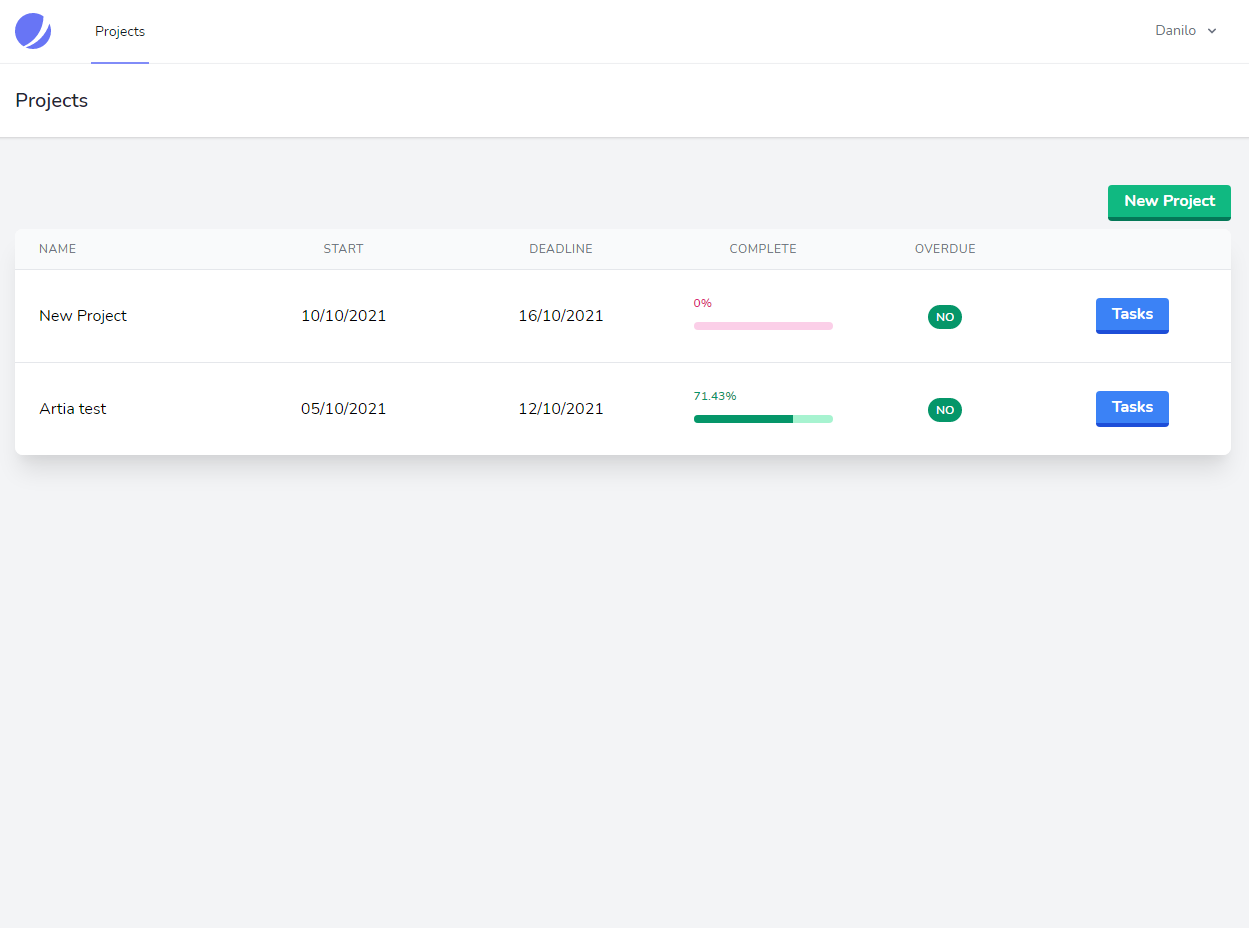
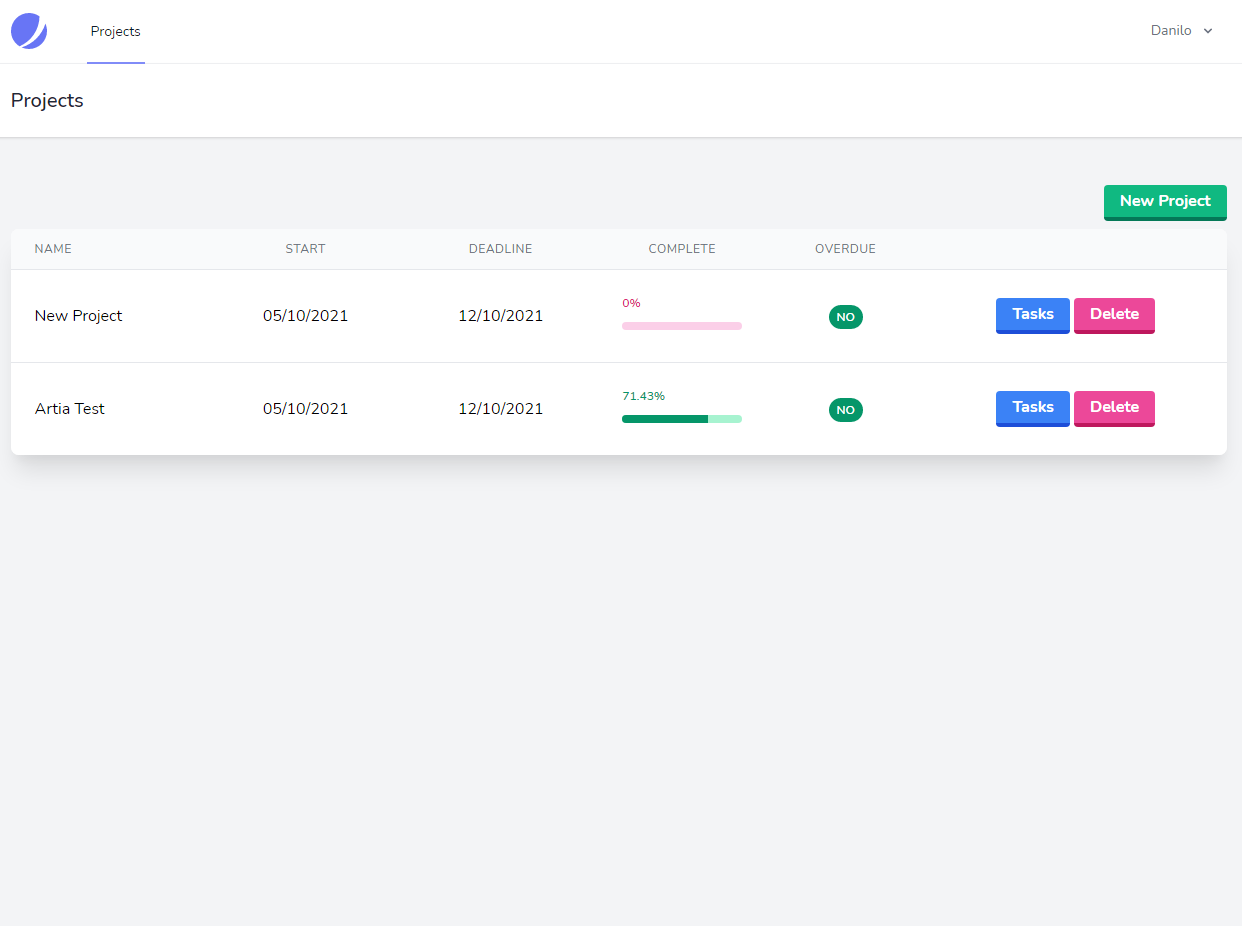
Readme update

diff --git a/README.md b/README.md
@@ -11,11 +11,13 @@ This is a simple project manager designed to test your programming knowledge
         - [Installation](#installation)
 - [Usage](#usage)
 - [Documentation](#documentation)
-  - [List Projects](#list-projects)
+  - [List projects](#list-projects)
   - [Add new project](#add-new-project)
-  - [List Projects](#list-projects)
+  - [Delete project](#delete-project)
+  - [List tasks](#list-projects)
   - [Add new task](#add-new-task)
   - [Update task status](#update-task-status)
+  - [Delete task](#delete-task)
 - [Status Codes](#status-codes)
 - [Technologies used](#technologies-used)
 
@@ -90,21 +92,29 @@ npm run dev
 
 ![plot](./screenshots/project-saved.PNG)
 
-6) On this page are listed the tasks.
+6) You can delete a project by clicking the button (delete).
+
+![plot](./screenshots/delete-project.PNG)
+
+7) On this page are listed the tasks.
 
 ![plot](./screenshots/tasks.PNG)
 
-7) You can register a new task.
+8) You can register a new task.
 
 ![plot](./screenshots/new-task.PNG)
 
-8) When you save, a message is displayed.
+9) When you save, a message is displayed.
 
 ![plot](./screenshots/task-saved.PNG)
 
-9) You can change the task status by clicking the button (yes/no).
+10) You can change the task status by clicking the button (Mark as not completed/Mark as completed).
 
 ![plot](./screenshots/task-changed.PNG)
+
+6) You can delete a task by clicking the button (delete).
+
+![plot](./screenshots/delete-task.PNG)
 
 ## Documentation
 
@@ -159,6 +169,19 @@ http://localhost/api/projects
 }
 ```
 
+### Delete project
+```http
+curl -X DELETE http://localhost/api/projects/{project_id}
+```
+
+#### Response
+```json
+{
+    "error": false,
+    "payload": true
+}
+
+```
 ### List tasks
 ```http
 curl -X GET http://localhost/api/projects/{project_id}/tasks
@@ -217,6 +240,19 @@ http://localhost/api/projects/{project_id}/tasks
 curl -X PUT -H 'Content-Type: application/json' \
 http://localhost/api/projects/{project_id}/tasks/{task_id}
 ```
+#### Response
+```json
+{
+    "error": false,
+    "payload": true
+}
+```
+
+### Delete task
+```http
+curl -X DELETE http://localhost/api/projects/{project_id}/tasks/{task_id}
+```
+
 #### Response
 ```json
 {
